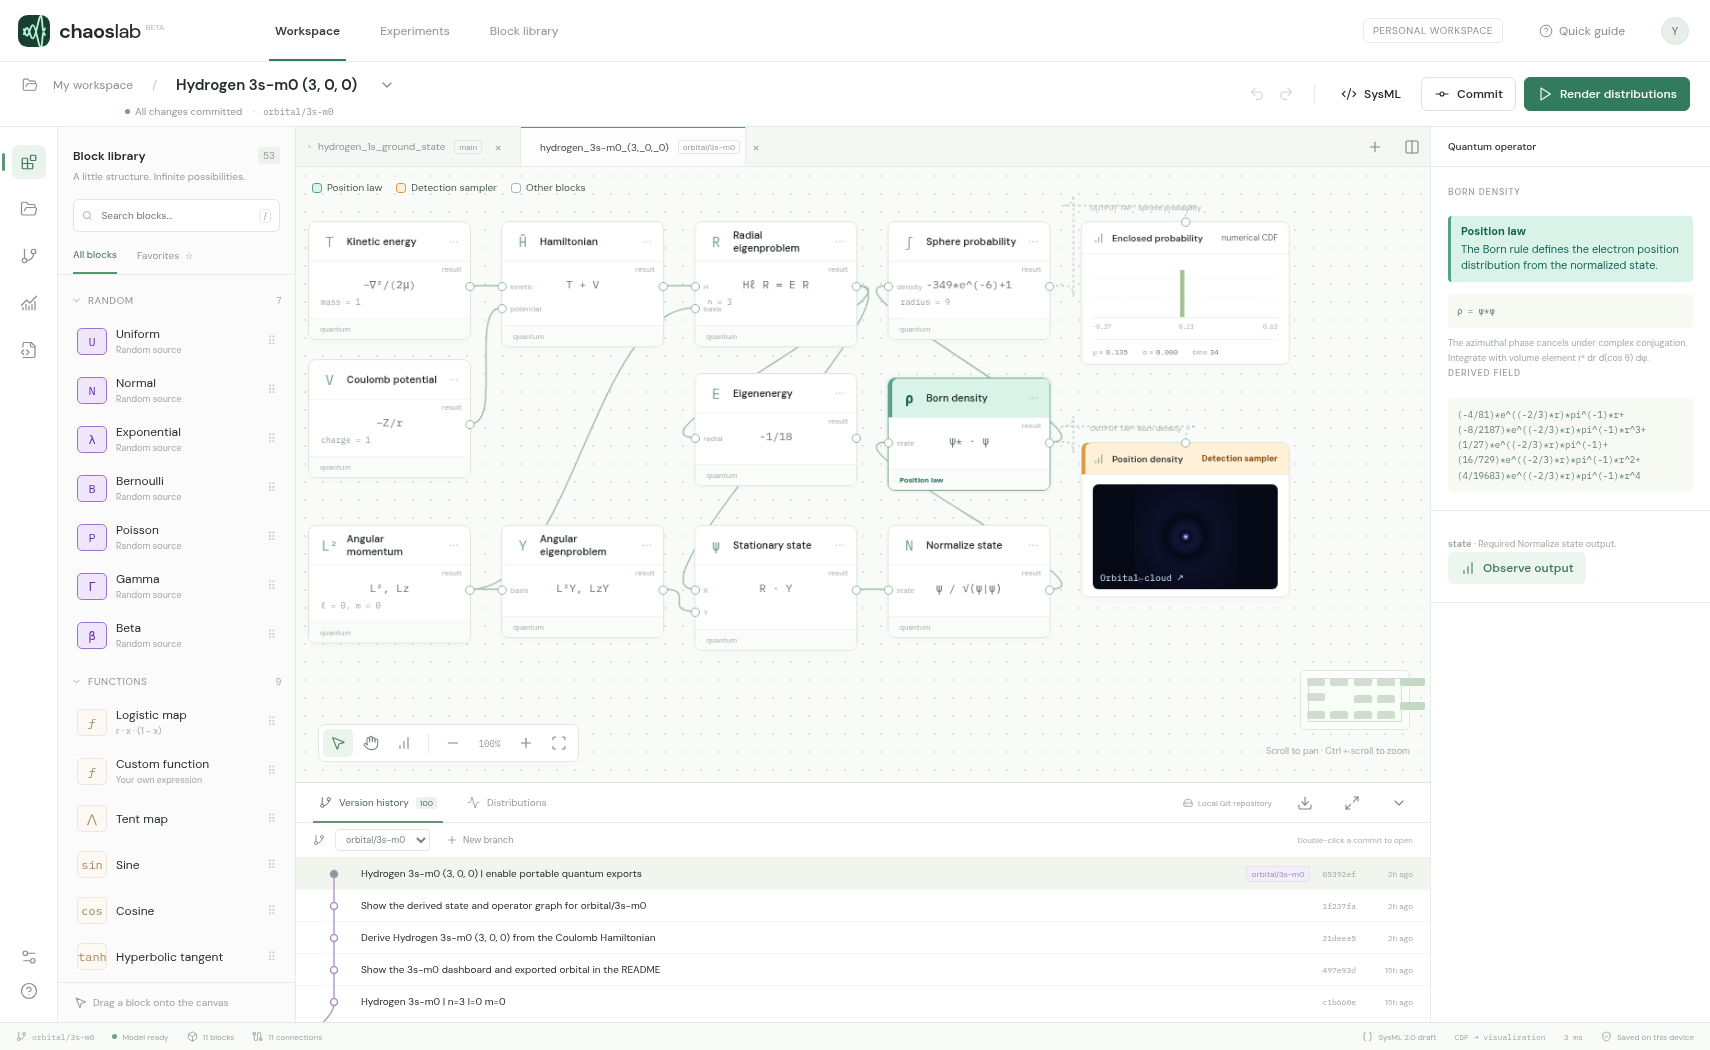
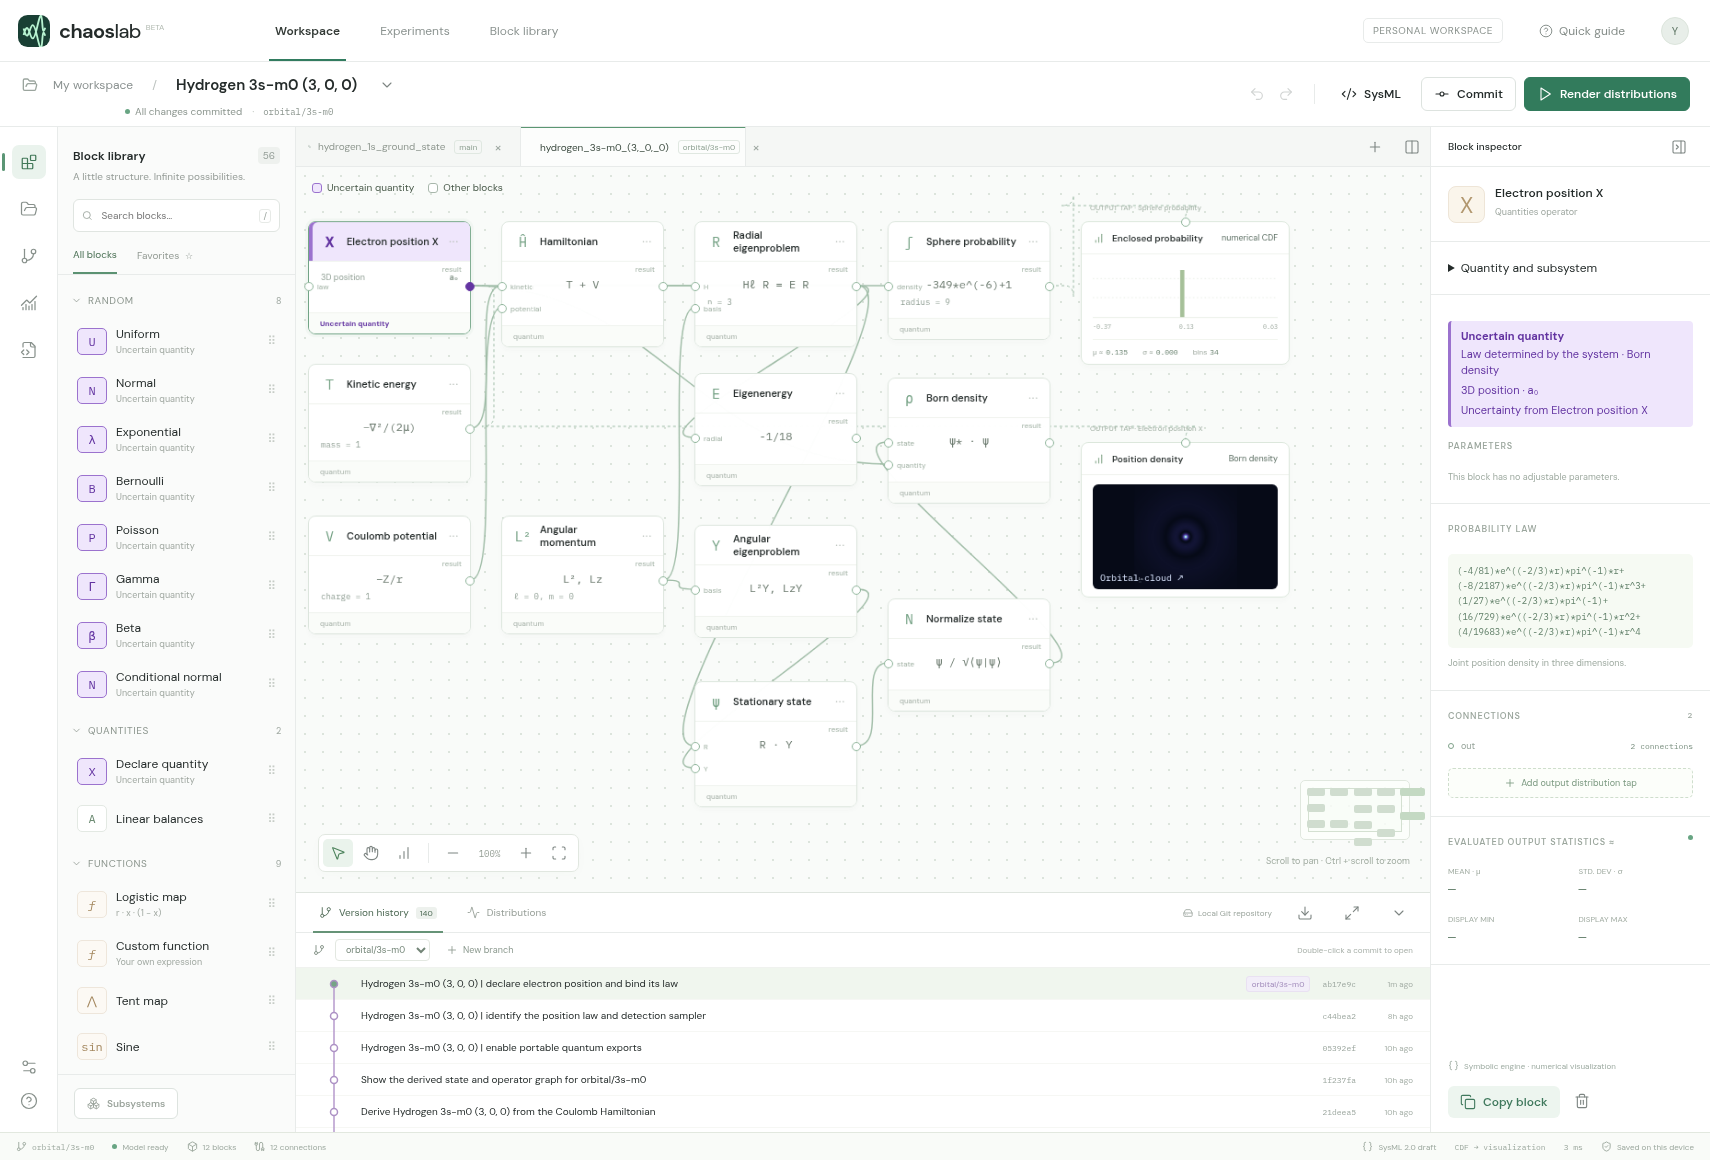
Show the position declaration and its law provider for orbital/3s-m0

diff --git a/studio.py b/studio.py
@@ -10,7 +10,7 @@ import tempfile
 import webbrowser
 
 ROOT = Path(__file__).resolve().parent
-STUDIO_REV = "5cbb600c6ee5baa24d159ddc6c974d68eb68f653"
+STUDIO_REV = "515ba96842af71b90f41019a508548a96e802665"
 STUDIO_REPO = "https://github.com/wa200508/chaos_lab.git"
 
 

diff --git a/README.md b/README.md
@@ -6,7 +6,7 @@ Open **Version history** in Chaos Lab to explore the 20 hydrogen designs in this
 
 The connected Hamiltonian and eigenstate solvers give $E=-1/18$ Hartree for this state.
 
-The purple **Electron position X** block declares the three-dimensional quantity in Bohr radii. Open its inspector to see **Born density** as its law provider. The sphere measurement and spatial tap both observe X. Projected detections draw from the final law; the central slice evaluates the density directly.
+The purple **Electron position X** block declares the three-dimensional quantity in Bohr radii. Open its inspector to see **Born density** as its law provider. The sphere measurement and spatial tap both observe X. Projected detections draw from the final law. The central slice evaluates the density directly.
 
 ![Chaos Lab dashboard with the 3s model, m = 0, open in version history](dashboard.png)
 
